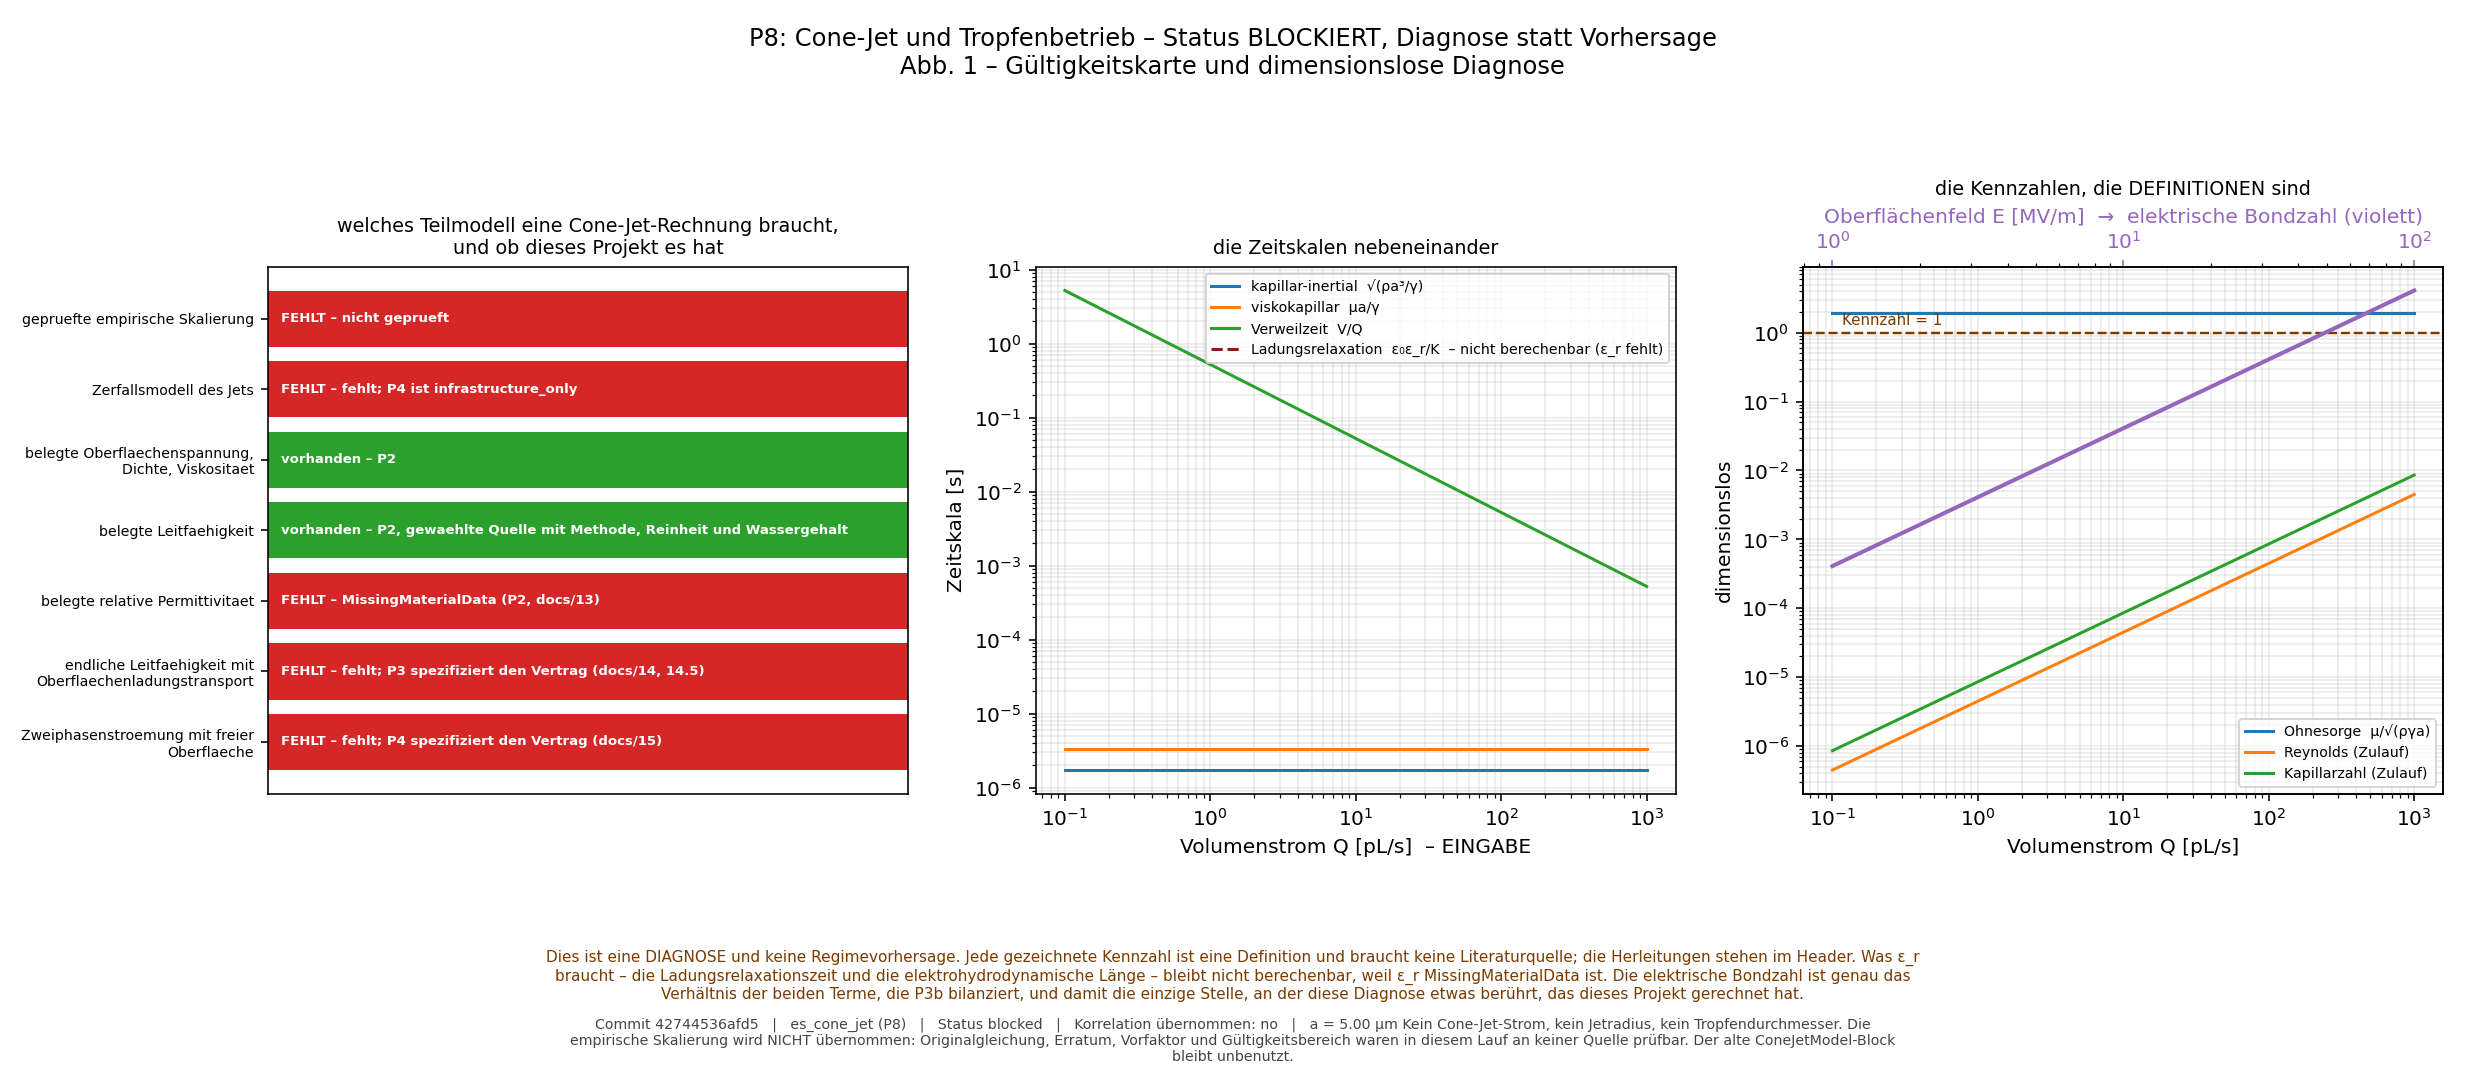
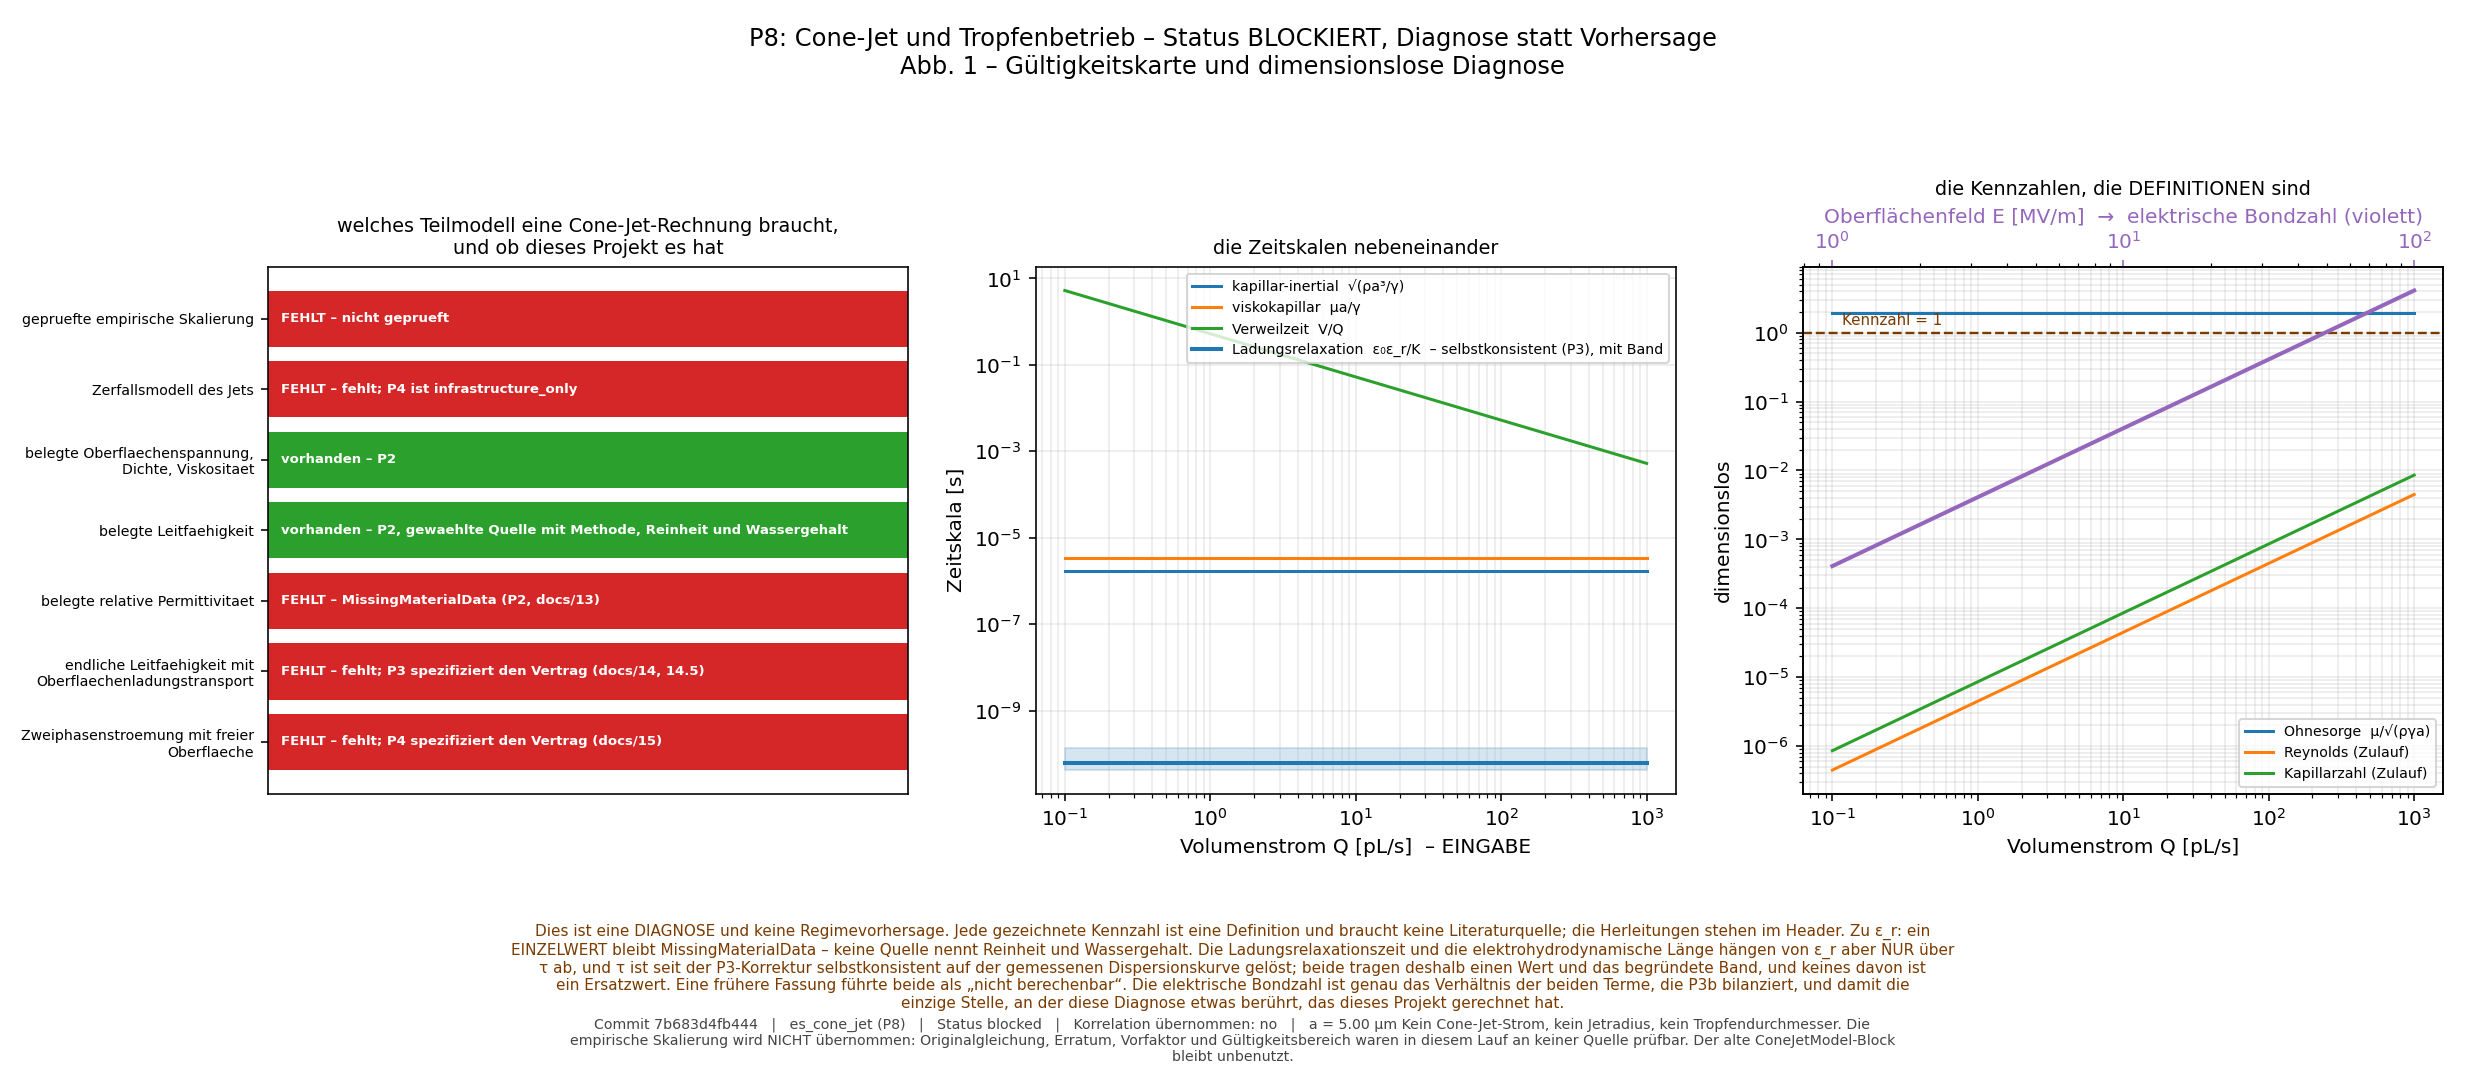
P8-Artefakte neu erzeugt aus 7b683d4: tau_e und r* sind nicht mehr nan
./build/es_cone_jet results/2026-08-29_p8_cone_jet meta.commit=$(git rev-parse HEAD)
  python python/plot_cone_jet.py results/2026-08-29_p8_cone_jet

Beide Groessen haengen von eps_r nur ueber tau ab, und tau ist seit der
P3-Korrektur selbstkonsistent auf der gemessenen Dispersionskurve geloest:

  tau_e = 6,059e-11 s   (Band 4,183e-11 .. 1,323e-10 s)
  r*    = 5,369e-09 m   (Band 4,194e-09 .. 9,038e-09 m)

Neue Spalten in diagnosis.csv: tau_e_lo_s, tau_e_hi_s, r_star_lo_m,
r_star_hi_m, tau_e_self_consistent, eps_r_at_f_star, f_star_Hz.  Die Abbildung
zeichnet tau_e als Kurve mit Band statt als leere Legendenzeile "nicht
berechenbar (eps_r fehlt)".

Der Status aendert sich NICHT: eps_r bleibt als Einzelwert MissingMaterialData,
die Gueltigkeitskarte fuehrt "belegte relative Permittivitaet" weiter als
FEHLEND, und P8 bleibt blockiert -- fuenf von sieben Teilmodellen fehlen.

Claude-Session: https://claude.ai/code/session_01Hozq9yjzymoyEZTS8x1Eos

diff --git a/results/2026-08-29_p8_cone_jet/README.md b/results/2026-08-29_p8_cone_jet/README.md
@@ -48,7 +48,23 @@ geprueft auf 1e-12.
 | elektrische Bondzahl | 1,02 |
 | Reynolds (Zulauf) | 4,5e-04 |
 | Kapillarzahl (Zulauf) | 8,6e-04 |
-| tau_e, r* | **nicht berechenbar** -- eps_r fehlt |
+| tau_e | **6,06e-11 s** -- selbstkonsistent (P3), Band 4,18e-11 ... 1,32e-10 s |
+| r* | **5,37e-09 m** -- Band 4,19e-09 ... 9,04e-09 m |
+
+**Zu tau_e und r*.** Eine fruehere Fassung fuehrte beide als *nicht berechenbar,
+eps_r fehlt*. Das war vor der P3-Korrektur richtig. Beide haengen von eps_r
+jedoch **nur ueber tau** ab:
+
+```
+r* = (gamma eps0^2 eps_r^2 / (rho K^2))^(1/3) = (gamma tau^2 / rho)^(1/3)
+```
+
+und tau ist seit P3 selbstkonsistent auf der **gemessenen** Dispersionskurve
+geloest (eps_r = 10,664 bei f* = 2,627 GHz). Das ist **kein Ersatzwert**. Ein
+**einzelner** eps_r-Wert fehlt weiterhin, `eps_r_status` bleibt
+`MissingMaterialData`, und der Gesamtstatus der Diagnose ebenso. Die Identitaet
+zwischen beiden Rechenwegen wird im Test gerechnet, nicht behauptet: r* aus tau
+und r* aus eps_r(f*) stimmen auf 1e-12 ueberein.
 
 Ablesbar: Oh ~ 2, auf dieser Laengenskala dominiert die Viskositaet die
 Traegheit. Das ist eine DIAGNOSE, welche Physik ein Modell enthalten muesste --
